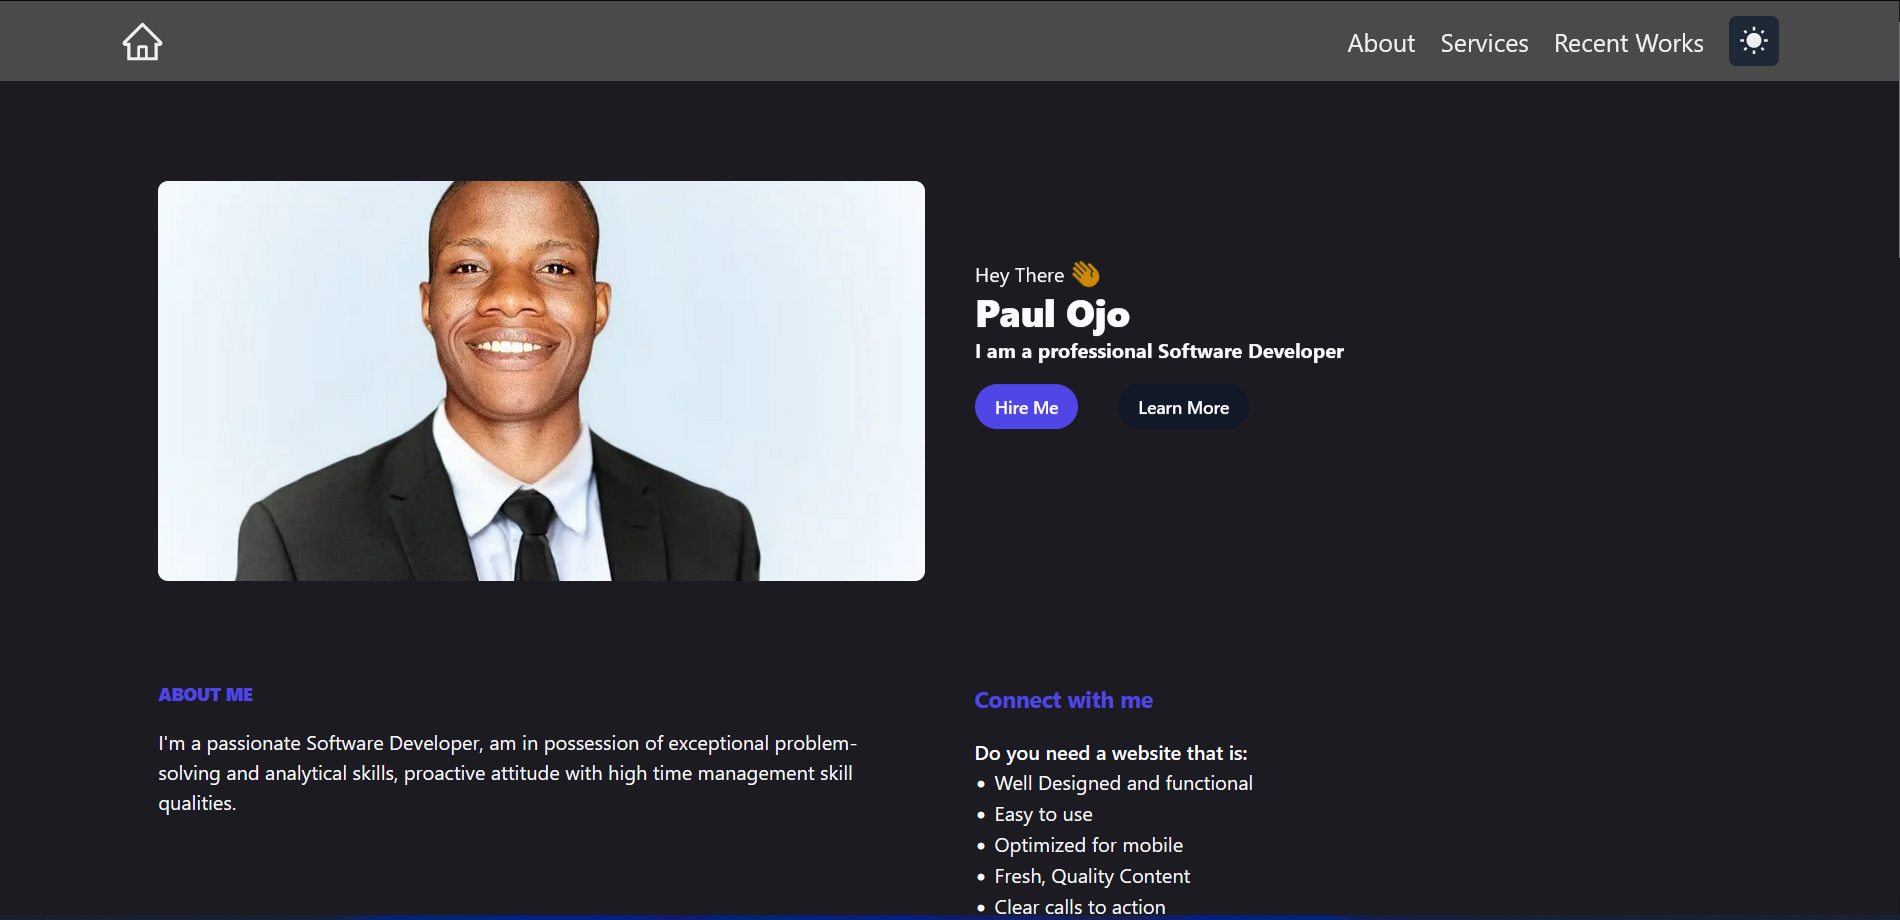
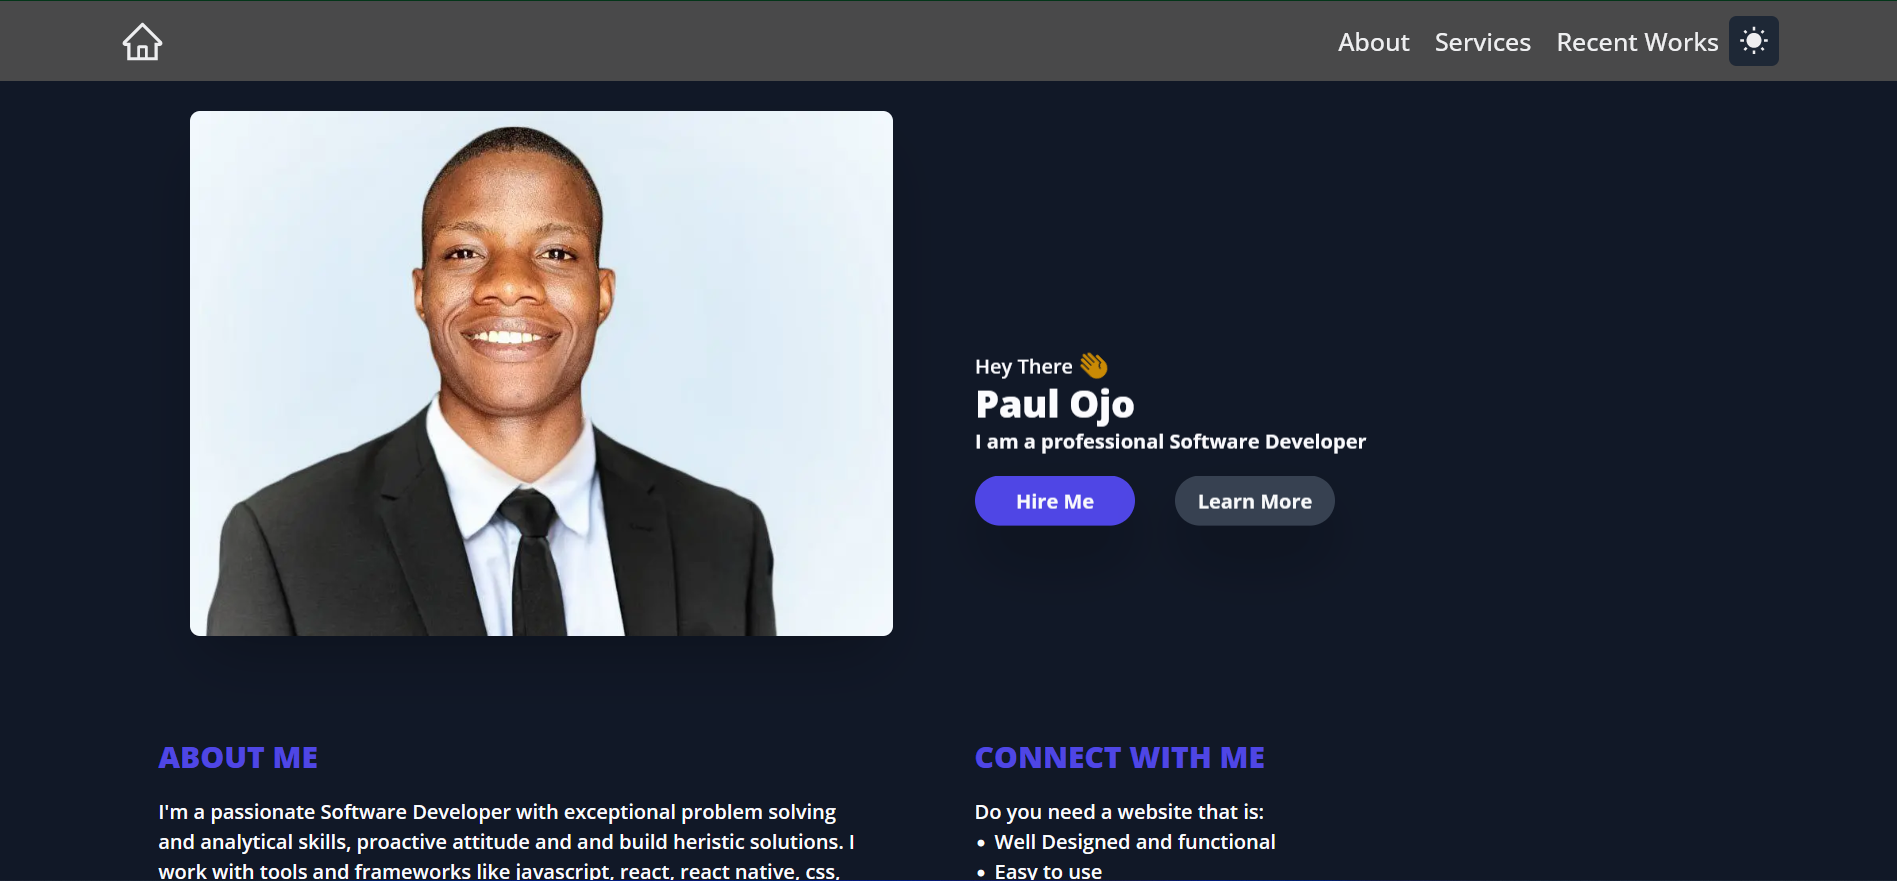
completed

diff --git a/components/RecentWork.js b/components/RecentWork.js
@@ -1,28 +1,26 @@
-import Image from "next/image"
+import Image from "next/legacy/image"
 import Link from "next/link"
 
 const RecentWork = ({ id, link, image, label, github_link }) => {
   return (
-    <div key={id}>
-      <div className="space-y-3 active:scale-110 hover:scale-110 focus:m-0 ease-in-out transition-all duration-500 m-4">
-        <Link target="_blank" href={link}>
-          <div className="h-fit w-fit border-2 border-gray-300 rounded-md">
-            <Image src={image} alt={label} height={380} width={800} objectFit="cover" className="rounded-md" />
-          </div>
-        </Link>
-        <h1 className="font-semibold text-xl md:text-2xl text-center">{label}</h1>
-        <div className="flex space-x-4 justify-center">
-          <Link href={github_link}>
-            <button className="rounded-3xl px-4 py-2 font-bold   hover:shadow-2xl cursor-pointer w-32  drop-shadow-2xl shadow-2xl text-gray-50bg-indigo-600 ease-in-out bg-indigo-600 text focus:bg-indigo-400 hover:bg-indigo-400 text-gray-50">
-              Code
-            </button>
-          </Link>
-          <Link href={link}>
-            <button className="rounded-3xl px-4 py-2 font-bold   hover:shadow-2xl cursor-pointer w-32  drop-shadow-2xl shadow-2xl text-gray-50 bg-gray-900 ease-in-out  active:bg-gray-400 hover:bg-gray-400 ">
-              View
-            </button>
-          </Link>
+    <div>
+      <Link target="_blank" href={link}>
+        <div className=" h-fit w-fit border-2 border-gray-300 rounded-md">
+          <Image src={image} alt={label} height={380} width={800} objectFit="cover" className="rounded-md" />
         </div>
+      </Link>
+      <h1 className="mt-3 font-semibold text-xl md:text-2xl text-center">{label}</h1>
+      <div className="mt-3 flex space-x-4 justify-center">
+        <Link href={github_link}>
+          <button className="rounded-3xl px-4 py-2 font-bold   hover:shadow-2xl cursor-pointer w-32  drop-shadow-2xl shadow-2xl text-gray-50bg-indigo-600 ease-in-out bg-indigo-600 text focus:bg-indigo-400 hover:bg-indigo-400 text-gray-50">
+            Code
+          </button>
+        </Link>
+        <Link href={link}>
+          <button className="rounded-3xl px-4 py-2 font-bold hover:shadow-2xl cursor-pointer w-32  drop-shadow-2xl shadow-2xl text-gray-50 bg-gray-700 ease-in-out  active:bg-gray-400 hover:bg-gray-400 ">
+            View
+          </button>
+        </Link>
       </div>
     </div>
   )

diff --git a/pages/index.js b/pages/index.js
@@ -1,4 +1,4 @@
-import Image from "next/image"
+import Image from "next/legacy/image"
 import Layout from "../components/Layout"
 import { MdFrontHand } from "react-icons/md"
 import { FaLinkedinIn } from "react-icons/fa"
@@ -16,7 +16,6 @@ export default function Home() {
     <Layout>
       <div className="w-10/12 mx-auto font-semibold">
         <div className="grid md:grid-cols-2 md:m-10  md:ml-0 sm:grid-cols-1 justify-center mb-6">
-          {/* Photo and Head */}
           <div className="flex h-80 w-80 lg:h-[420px] lg:w-11/12 mt-6 rounded-lg hover:-rotate-3 transition-all duration-500 relative mx-auto shadow-2xl ">
             <Image
               src="/assets/images/paul-image.jpg"
@@ -69,7 +68,7 @@ export default function Home() {
               </button>
 
               <Link href="#about">
-                <button className="hireme_learnmore bg-gray-900 ease-in-out  active:bg-gray-600 ">Learn More</button>
+                <button className="hireme_learnmore bg-gray-700 ease-in-out  active:bg-gray-400 ">Learn More</button>
               </Link>
             </div>
           </div>
@@ -120,7 +119,10 @@ export default function Home() {
         <h1 className="font-extrabold flex justify-center mx-auto text-xl md:text-3xl mb-8 ">RECENT WORKS</h1>
         <div className="grid md:grid-cols-2 sm:grid-cols-1 mb-10 -mt-6 gap-6">
           {RecentWorkData.map((recentWorks) => (
-            <>
+            <div
+              key={recentWorks.id}
+              className=" active:scale-110 hover:scale-110 focus:m-0 ease-in-out transition-all duration-500 m-4"
+            >
               <RecentWork
                 id={recentWorks.id}
                 link={recentWorks.link}
@@ -128,7 +130,7 @@ export default function Home() {
                 label={recentWorks.label}
                 github_link={recentWorks.github_link}
               />
-            </>
+            </div>
           ))}
         </div>
       </div>

diff --git a/components/Layout.js b/components/Layout.js
@@ -17,7 +17,7 @@ const Layout = ({ title, keywords, description, children }) => {
         <meta name="keywords" content={keywords} />
         <link rel="icon" href="/favicon.ico" />
       </Head>
-      <div id="home" className="relative font-open-san">
+      <div id="home" className="relative font-open-san bg-gray-50 dark:bg-gray-900">
         <Header dropdownHandler={dropdownHandler} />
         <Dropdown showDropdown={showDropdown} dropdownHandler={dropdownHandler} />
         <div className="mt-20 md:mt-16">{children}</div>

diff --git a/styles/globals.css b/styles/globals.css
@@ -54,7 +54,7 @@
 }
 
 .dropdown_background {
-  @apply flex flex-col top-0 h-screen overflow-y-auto bg-indigo-50  lg:hidden fixed sm:w-8/12 md:w-1/4 pl-2 z-20;
+  @apply flex flex-col top-0 h-screen overflow-y-auto bg-gray-50 dark:bg-gray-900 lg:hidden fixed sm:w-8/12 md:w-1/4 pl-2 z-20;
 }
 
 .dropdown_header_title {
